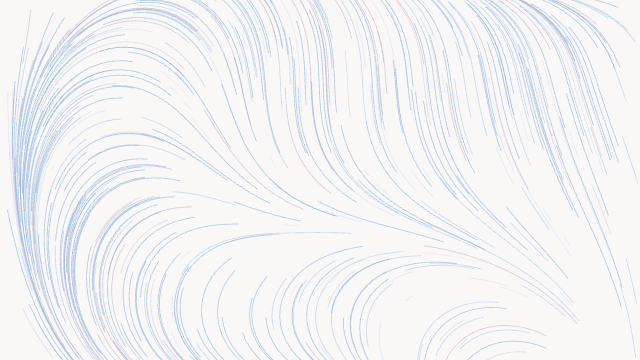
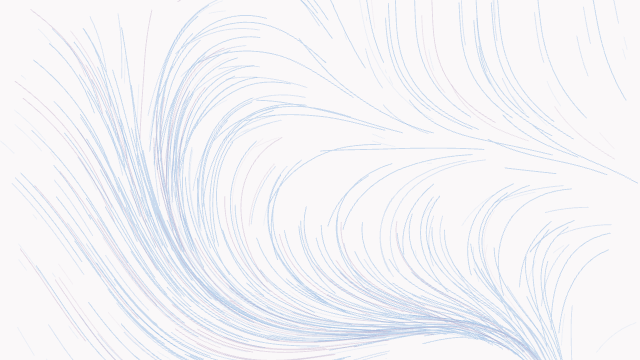
Tune effect defaults to the per-role contrast rule of simai.effect 1.1
At default settings, text over an effect now needs 4.5:1 in --sf-on-surface
and 3:1 in --sf-on-surface-variant (large text only), worst of five frames,
95 % of pixels. Seven effects were below 3:1 or within its margin; their
defaults drop so every effect x scheme run holds at least 3.24:1:

- aurora-curtain intensity 60 -> 40
- abyss-caustics intensity 55 -> 30
- neon-horizon intensity 60 -> 50
- liquid-chrome intensity 60 -> 55
- rain-glass lights 60 -> 50
- ink-threads intensity 50 -> 25
- halftone-tide intensity 50 -> 40

Previews, READMEs, the kit results and the catalogue follow. Adds
scripts/contrast-probe.mjs, which measures the 1.1 contrast check ahead of
that kit (it matched the 1.1 kit within 0.02), the agent guide CLAUDE.md and
docs/STATUS.md, and states the rule in the author guide.

diff --git a/effects/abyss-caustics/index.js b/effects/abyss-caustics/index.js
@@ -60,7 +60,7 @@ const fsin = (x) => SIN[(x * 651.8986) & 4095];
 const FX = {
   seed: 71,
   t0: 25,
-  settings: {speed: [100, 10, 300], intensity: [55, 10, 100], scale: [50, 20, 100], rays: true, interactive: true},
+  settings: {speed: [100, 10, 300], intensity: [30, 10, 100], scale: [50, 20, 100], rays: true, interactive: true},
   init(env, rand) {
     const st = {rand, buf: null, img: null, lx: 0.5,
       motes: Array.from({length: 46}, () => ({x: rand(), y: rand(), s: 0.4 + rand() * 1.1, v: 0.004 + rand() * 0.01, ph: rand() * 6.28}))};

diff --git a/effects/aurora-curtain/index.js b/effects/aurora-curtain/index.js
@@ -74,7 +74,7 @@ const noise2 = (x, y) => {
 const FX = {
   seed: 11,
   t0: 40,
-  settings: {speed: [100, 10, 300], intensity: [60, 10, 100], curtains: [3, 1, 4], interactive: true},
+  settings: {speed: [100, 10, 300], intensity: [40, 10, 100], curtains: [3, 1, 4], interactive: true},
   init(env, rand) {
     const st = {rand, stars: null, sprites: [], sway: 0};
     this.resize(env, st);

diff --git a/effects/rain-glass/index.js b/effects/rain-glass/index.js
@@ -58,7 +58,7 @@ const TAU = Math.PI * 2;
 const FX = {
   seed: 53,
   t0: 4,
-  settings: {speed: [100, 10, 300], density: [55, 10, 100], lights: [60, 10, 100], interactive: true},
+  settings: {speed: [100, 10, 300], density: [55, 10, 100], lights: [50, 10, 100], interactive: true},
   init(env, rand) {
     const st = {rand, wait: 1, spawn: 0, px: -1e3, py: -1e3};
     this.build(env, st);

diff --git a/effects/neon-horizon/index.js b/effects/neon-horizon/index.js
@@ -55,7 +55,7 @@ function readTheme(host) {
 const FX = {
   seed: 61,
   t0: 0,
-  settings: {speed: [100, 10, 300], intensity: [60, 10, 100], horizon: [42, 20, 70], interactive: true},
+  settings: {speed: [100, 10, 300], intensity: [50, 10, 100], horizon: [42, 20, 70], interactive: true},
   init(env, rand) {
     const st = {rand, vx: 0.5, stars: null};
     this.resize(env, st);

diff --git a/effects/liquid-chrome/index.js b/effects/liquid-chrome/index.js
@@ -62,7 +62,7 @@ const E = 256;
 const FX = {
   seed: 17,
   t0: 30,
-  settings: {speed: [100, 10, 300], intensity: [60, 10, 100], scale: [3, 1, 5], interactive: true},
+  settings: {speed: [100, 10, 300], intensity: [55, 10, 100], scale: [3, 1, 5], interactive: true},
   init(env, rand) {
     const st = {px: 0, py: 0, pk: 0};
     this.resize(env, st);

diff --git a/docs/STATUS.md b/docs/STATUS.md
@@ -1,0 +1,62 @@
+# Status and roadmap
+
+The state of the catalogue, the decisions behind it and what waits on the Framework. Update this file when any of them changes.
+
+## Decisions
+
+- **Effects live here, not in the Framework.** The Framework ships only the core:
+  - the `simai.effect` standard;
+  - `SF.Effects`;
+  - the kit;
+  - the sandbox runner.
+- **Only SIMAI's own effects for now.** Community submissions need a separate decision; see `CONTRIBUTING.md`.
+- **Theme policy.**
+  - Each effect declares `schemes` and may name a `pair`.
+  - A placement has a theme mode: `auto` (the default), `dark` or `light`.
+  - In `auto`, if the effect lacks the page's scheme, its pair is shown. If there is no pair, a dark-only effect stays dark, and a light-only effect is not shown on a dark page.
+  - **A fixed mode the effect cannot draw is never offered.**
+  - The effect's area takes the drawn theme.
+- **Windows mode is part of the standard.** One scene sits behind a group of cards and is seen only through them. Every effect here is safe for it.
+- **Pair trust.**
+  - A pair given as a catalogue id resolves against the catalogue and is checked by SHA-256 before it runs.
+  - A pair given as a foreign URL runs only in the sandbox.
+  - A trusted effect never pulls an untrusted pair inline.
+- **Readability.** At the manifest's default settings, text over an effect meets 4.5:1 in `--sf-on-surface` and 3:1 in `--sf-on-surface-variant`. 3:1 is the WCAG level for large text, so the dimmed role over an effect is for large text only (24px, or 18.66px bold); smaller text uses `--sf-on-surface`. The catalogue site's own text over effects is all in `--sf-on-surface` or `--sf-primary`. Raising a setting past its default is the page's choice.
+- **Captions over windows** sit on a veil that fades in from the effect, with no hard edge.
+- **The configurator's segmented switches** move to the Framework's segmented `<sf-button-group>` when it ships (simai/ui-source#4).
+
+## Today
+
+- **Standard.** The Framework release is pinned in `framework.lock.json`, on standard simai.effect 1.0.0.
+- **Schemes and pairs.** They live in `effects/policy.json`, because 1.0 manifests allow no extra fields. Each manifest also has a `scheme` setting.
+- **Placement.** `site/lib/placement.js` adds the theme mode, the pair, windows mode and integrity loading on top of `SF.Effects.mountEffect`. It is the only stand-in for the core.
+- **The declarative snippet** in «Получить код» is marked «после выхода ядра simai.effect 1.1» and does not work yet.
+
+## Waiting on the Framework, in its order
+
+1. **simai.effect 1.1.**
+   - Manifest fields:
+     - `schemes`;
+     - `pair`: a catalogue id or an https URL ending in `/effect.json`, allowed only with a single scheme;
+     - `capabilities: ["windows"]`;
+     - `context.scheme`, with `update(settings, context)` on a scheme switch.
+   - Kit checks: per-scheme runs, a scheme switch, windows, and contrast (worst of five frames, 95 % of pixels; 4.5:1 on-surface, 3:1 on-surface-variant).
+   - **Then here:**
+     - repin the lock;
+     - move the manifests to the new fields and drop the `scheme` setting;
+     - shrink `policy.json` to order, descriptions and tags;
+     - update the schemas, the kit runner, `AUTHORING.md` and the template.
+2. **SF.Effects.**
+   - `themeMode` with `allowedModes()` and `resolveTheme()`, windows mode, the declarative `data-sf-effect` mount, and integrity loading.
+   - **Then here:**
+     - delete `site/lib/placement.js` and call the core;
+     - make the declarative snippet real, with the attribute names as shipped;
+     - update the README.
+3. **The segmented Button Group** (simai/ui-source#4). **Then here:** replace `.seg` on the site.
+4. **The sandbox runner.** **Then here:** document foreign effects in `README.md` and `SECURITY.md`.
+
+## Effects
+
+There are 20 effects: 7 draw both schemes, 7 dark only and 6 light only. Eleven name a pair. `aurora-curtain` (dark) and `foam-cells` (light) have no pair, by design. The order, descriptions and tags are in `effects/policy.json`; the per-effect kit results are in `catalogue/kit.json`.
+
+Every effect's defaults pass the 1.1 contrast rule in each scheme it draws. `scripts/contrast-probe.mjs` measures it the way the 1.1 kit does, ahead of that kit.

diff --git a/CLAUDE.md b/CLAUDE.md
@@ -1,0 +1,43 @@
+# simai/ui-effects: instructions for the agent working here
+
+This repository is the catalogue of background effects for SIMAI Framework:
+- the effects;
+- the catalogue site at https://simai.github.io/ui-effects/;
+- the author guide and the checks.
+
+The thread working here is the **only writer** in this repository.
+
+## Start of every session
+
+1. Read `README.md`, then `docs/STATUS.md` (state, decisions, roadmap) and `docs/AUTHORING.md` (the effect contract).
+2. Read the private handoff, which holds local paths, the other threads and the working rules. It is not in this public repository. It is `control/handoffs/2026-10-19-ui-effects-thread.md` in the dispatcher's private `ui-control` checkout.
+3. Check `git status` and `git log`. Check that the last Quality and Pages runs are green: `gh run list -R simai/ui-effects`.
+
+## Language
+
+- Talk to the owner in Russian: the result first, in plain words.
+- Write everything in this repository in English: commits, comments, docs, READMEs.
+- The catalogue site's text is Russian.
+
+## Rules
+
+- Publishing after green gates is pre-approved: commit, push to `main`, then watch Quality and Pages.
+- Never force push or rewrite history. Never accept effects from outside SIMAI without the owner's decision.
+- Never commit local paths, secrets, `.env`, cookies or credentials. `scripts/check-hygiene.mjs` fails on them.
+- Never write in the Framework repositories (`ui`, `ui-source`, `ui-builder`), the docs (`ui-doc`, `docara`) or `ui-control`. Read them with `git show` / `git archive`. Framework defects go to issues on `simai/ui-source`. Docs changes go through the dispatcher thread.
+- Every URL the site or a snippet gives out is pinned by commit, never a branch. The integrity values come from `catalogue/index.json` at that commit.
+- An effect is done only when all of these hold:
+  - it passes the Framework kit in every scheme it draws;
+  - at its default settings, text over it meets 4.5:1 in `--sf-on-surface` and 3:1 in `--sf-on-surface-variant`, which is for large text only (`scripts/contrast-probe.mjs`);
+  - it obeys reduced motion and the hidden tab;
+  - it cleans up after itself;
+  - it stays inside the frame budget and size.
+
+## Gates before every push
+
+See `README.md` → «Working on the repository», and `.github/workflows/quality.yml`. Run, in order:
+- catalogue `--check`;
+- hygiene;
+- the kit over all effects and schemes, plus the template;
+- the site build;
+- the browser smoke under `/ui-effects/`, which must report 0 failing.

diff --git a/docs/AUTHORING.md b/docs/AUTHORING.md
@@ -90,8 +90,19 @@ Resolve the variables through a probe element, as the template does, so
 
 ## 4. Readability
 
-Text sits on the effect. On its **brightest frame**, the effect must leave
-room for 4.5:1 text in the on-surface colour of the theme it is drawn in:
+Text sits on the effect. At the manifest's default settings, over the worst
+of five frames and against 95 % of the pixels, text in the roles of the theme
+the effect is drawn in must reach:
+
+- **4.5:1** in `--sf-on-surface`;
+- **3:1** in `--sf-on-surface-variant`.
+
+3:1 is the WCAG level for large text and icons, not for body text. So
+`--sf-on-surface-variant` over an effect is for large text only (24px, or
+18.66px bold); smaller text over an effect uses `--sf-on-surface`. Raising a setting past its default is the page's
+choice. `node scripts/contrast-probe.mjs` measures every effect this way.
+
+To get there:
 
 - keep bright elements small and the main area calm;
 - light effects keep their darkest areas well above mid-grey, dark effects

diff --git a/effects/rain-glass/README.md b/effects/rain-glass/README.md
@@ -14,7 +14,7 @@ Drops on a night window with blurred city lights behind; large drops slide down 
 |:---|:---|:---|:---|:---|
 | `speed` | integer | 10–300 % | `100` | Speed |
 | `density` | integer | 10–100 % | `55` | Droplet density. How many droplets cover the glass |
-| `lights` | integer | 10–100 % | `60` | City lights. How many blurred lights shine behind the glass |
+| `lights` | integer | 10–100 % | `50` | City lights. How many blurred lights shine behind the glass |
 | `interactive` | boolean | — | `true` | React to the pointer. A moving pointer shakes drops loose |
 | `scheme` | choice | `dark` | `"dark"` | The scheme the effect is drawn in. Set by the placement, not by the user (see «Schemes»). |
 

diff --git a/effects/liquid-chrome/README.md b/effects/liquid-chrome/README.md
@@ -13,7 +13,7 @@ Slow folds of dark liquid metal with narrow coloured highlights.
 | Key | Type | Range or options | Default | Meaning |
 |:---|:---|:---|:---|:---|
 | `speed` | integer | 10–300 % | `100` | Speed |
-| `intensity` | integer | 10–100 % | `60` | Reflection brightness |
+| `intensity` | integer | 10–100 % | `55` | Reflection brightness |
 | `scale` | integer | 1–5 | `3` | Wave size. 1 is broad folds, 5 is fine ripples |
 | `interactive` | boolean | — | `true` | React to the pointer. The pointer presses a soft dent |
 | `scheme` | choice | `dark` | `"dark"` | The scheme the effect is drawn in. Set by the placement, not by the user (see «Schemes»). |

diff --git a/effects/neon-horizon/README.md b/effects/neon-horizon/README.md
@@ -13,7 +13,7 @@ A neon perspective grid runs to a glowing horizon under sparse stars.
 | Key | Type | Range or options | Default | Meaning |
 |:---|:---|:---|:---|:---|
 | `speed` | integer | 10–300 % | `100` | Speed |
-| `intensity` | integer | 10–100 % | `60` | Intensity |
+| `intensity` | integer | 10–100 % | `50` | Intensity |
 | `horizon` | integer | 20–70 % | `42` | Horizon height |
 | `interactive` | boolean | — | `true` | React to the pointer. The vanishing point follows the pointer |
 | `scheme` | choice | `dark` | `"dark"` | The scheme the effect is drawn in. Set by the placement, not by the user (see «Schemes»). |

diff --git a/effects/aurora-curtain/README.md b/effects/aurora-curtain/README.md
@@ -13,7 +13,7 @@ Glowing aurora curtains fold slowly over a dark starry sky.
 | Key | Type | Range or options | Default | Meaning |
 |:---|:---|:---|:---|:---|
 | `speed` | integer | 10–300 % | `100` | Speed |
-| `intensity` | integer | 10–100 % | `60` | Intensity |
+| `intensity` | integer | 10–100 % | `40` | Intensity |
 | `curtains` | integer | 1–4 | `3` | Curtains |
 | `interactive` | boolean | — | `true` | React to the pointer. Curtains lean towards the pointer |
 | `scheme` | choice | `dark` | `"dark"` | The scheme the effect is drawn in. Set by the placement, not by the user (see «Schemes»). |
